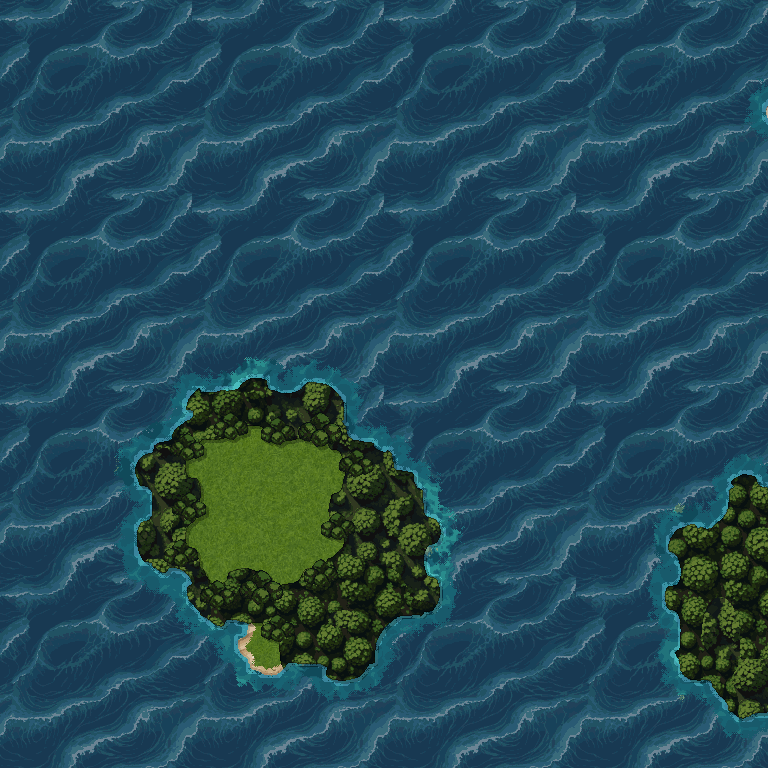
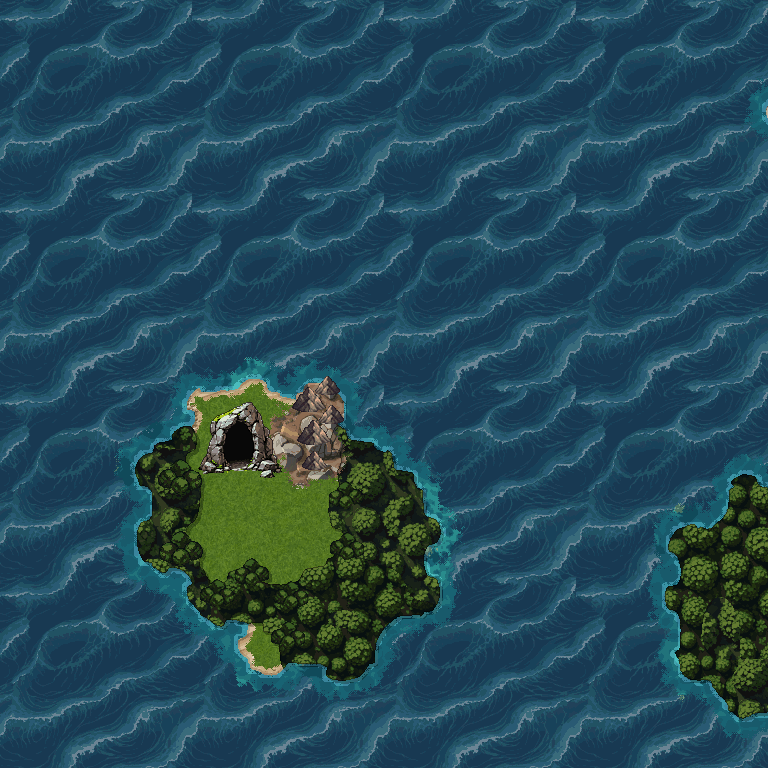
CD-W: a cave on the north, east, stack and west Cardia islets, five doors into Cardia Deep
- world_specs/later_doors.py: DOORS (the four islet doors, one step north of their entrances) and RETARGET (pass
  W's frozen Bahamut door now leads to cardia-deep bahamut_gate); world_source.doors() / transitions() read them
  after the frozen data (today_doors_data.py unchanged)
- ordeal/world_ordeal_nw.py: _mouth for ord_bahamut and DOOR_ISLES (the hermit's islet keeps only his hut, R1);
  a mouth that leaves an islet under 12 walk cells or without a grass landing within 8 is a pins error
- spots ord_s_{north,east,stack,west}_airship (44 -> 48); the docstrings fixed (the north islet is the northernmost)
- world.py: every check OK; land 26,948, exemptions 440 (cap 600); the full compile changed only ORDEAL-owned
  chunks (below_3_9, 4_9, 4_10, 5_9) and re-baked the Mode 7 atlas
- tests: ord_o_world (the islet doors, five mouths by cell, the four landings), worldSource (48 spots)

Changed region(s): [[0.1875, 0.4688, 0.5, 0.8438]]

diff --git a/tests/quest/ordeal/ord_o_world.test.ts b/tests/quest/ordeal/ord_o_world.test.ts
@@ -4,7 +4,8 @@
  * `regions.<r>.raster` chunks; committed sources only). The two anchors at their NW targets with their doors one
  * step north; airship-only land (no dock, no walk or canoe path joins the arc, an islet or another region); a grass
  * landing within 8 steps of the Citadel and of every islet, the meadow below the gate; the crescent's cold north rim;
- * the icons (the Citadel between its pillars on the crag, Bahamut's cave mouth, the hermit's hut and slate); the
+ * the icons (the Citadel between its pillars on the crag, a cave mouth on Bahamut's isle and on each of four islets,
+ * pass CD's stairs into Cardia Deep, the hermit's hut and slate); the
  * zones with today's ids and rosters covering every walkable and canoe cell of ORDEAL's land (3.8 `coverage`) and
  * ORDEAL's water; the backdrops, snow and taiga included (D-NW9, NW2).
  */
@@ -39,6 +40,7 @@ const g = nw.ground.replace(/\n$/, '').split('\n').map((r) => [...r]);
 const N = g.length;
 const E = nw.entrances;
 const ISLES = ['ord_bahamut', 'ord_isle_hermit', 'ord_isle_north', 'ord_isle_east', 'ord_isle_stack', 'ord_isle_west'];
+const DOOR_ISLES = ['ord_isle_north', 'ord_isle_east', 'ord_isle_stack', 'ord_isle_west'];   // pass CD: not the hermit's
 const BLOCK = new Set(['o', 'm', 'r', '≈']);
 const CANOE = new Set(['r', '≈']);
 const walkable = (c: string): boolean => !BLOCK.has(c);
@@ -79,11 +81,26 @@ describe('ORDEAL on the NW world (NW-R)', () => {
       const [x, y] = E[a.entrance];
       expect(Math.max(Math.abs(x - a.target[0]), Math.abs(y - a.target[1])), a.entrance).toBeLessThanOrEqual(2);
     }
-    for (const [e, map] of [['ord_citadel', 'citadel-1f'], ['ord_bahamut', 'bahamut-cave']] as const) {
+    for (const [e, map, te] of [['ord_citadel', 'citadel-1f', 'arrival'], ['ord_bahamut', 'cardia-deep', 'bahamut_gate']] as const) {
       const [x, y] = E[e];
-      expect(nw.transitions.find((t) => t.x === x && t.y === y - 1), e).toMatchObject({ targetMap: map, targetEntrance: 'arrival' });
+      expect(nw.transitions.find((t) => t.x === x && t.y === y - 1), e).toMatchObject({ targetMap: map, targetEntrance: te });
       expect(walkable(g[y][x]) && walkable(g[y - 1][x]), e).toBe(true);
     }
+  });
+
+  it('pass CD: each of four islets has a door one step north of its entrance into Cardia Deep; the hermit\'s none', () => {
+    const into = nw.transitions.filter((t) => t.targetMap === 'cardia-deep');
+    expect(into).toHaveLength(5);
+    const want: Record<string, string> = { ord_isle_north: 'north', ord_isle_east: 'east', ord_isle_stack: 'stack',
+      ord_isle_west: 'west' };
+    for (const e of DOOR_ISLES) {
+      const [x, y] = E[e];
+      expect(nw.transitions.find((t) => t.x === x && t.y === y - 1), e)
+        .toMatchObject({ targetMap: 'cardia-deep', targetEntrance: want[e] });
+      expect(walkable(g[y][x]) && walkable(g[y - 1][x]), e).toBe(true);
+    }
+    const [hx, hy] = E.ord_isle_hermit;
+    expect(nw.transitions.some((t) => Math.abs(t.x - hx) + Math.abs(t.y - hy) <= 2), 'the hermit\'s islet has no door').toBe(false);
   });
 
   it('is airship-only: the arc and each islet are their own land, on ORDEAL\'s raster, with no dock', () => {
@@ -114,7 +131,8 @@ describe('ORDEAL on the NW world (NW-R)', () => {
     const [cx, cy] = E.ord_citadel;
     const [, my] = E.ord_meadow;
     for (let y = cy; y <= my; y++) expect(g[y][cx], `meadow (${cx}, ${y})`).toBe('.');
-    for (const s of ['ord_s_citadel_airship', 'ord_s_bahamut_airship']) {
+    for (const s of ['ord_s_citadel_airship', 'ord_s_bahamut_airship', 'ord_s_north_airship', 'ord_s_east_airship',
+      'ord_s_stack_airship', 'ord_s_west_airship']) {
       const [x, y] = nw.spots[s].at;
       expect([nw.spots[s].kind, g[y][x]], s).toEqual(['landing', '.']);
     }
@@ -138,8 +156,12 @@ describe('ORDEAL on the NW world (NW-R)', () => {
     const pillars = nw.objects.filter((o) => o.parts?.[0]?.[0] === 'tpillar_broken_top' && inRaster('ordeal', o.x, o.y));
     expect(pillars.map((o) => [o.x, o.y])).toEqual([[cit.x - 1, cit.y + 1], [cit.x + 3, cit.y + 1]]);
     const [bx, by] = E.ord_bahamut;
-    const cave = nw.objects.find((o) => o.name === 'cave_mouth' && inRaster('ordeal', o.x, o.y))!;   // ORDEAL's
+    const cave = nw.objects.find((o) => o.name === 'cave_mouth' && o.x === bx - 1 && o.y === by - 2)!;   // Bahamut's
     expect([cave.x, cave.y, cave.walk_cells]).toEqual([bx - 1, by - 2, [[1, 1]]]);
+    const mouths = nw.objects.filter((o) => o.name === 'cave_mouth' && inRaster('ordeal', o.x, o.y));
+    const at = ['ord_bahamut', ...DOOR_ISLES].map((e) => [E[e][0] - 1, E[e][1] - 2]);
+    expect(mouths.map((o) => [o.x, o.y]).sort()).toEqual(at.sort());
+    for (const o of mouths) expect(o.walk_cells).toEqual([[1, 1]]);
     const hut = nw.objects.find((o) => o.name === 'hermit_hut')!;
     expect(bfs(E.ord_isle_hermit, land).has(key(hut.x, hut.y)), 'the hut stands on the hermit\'s islet').toBe(true);
     const boulders = nw.objects.filter((o) => o.parts?.[0]?.[0] === 'boulder' && inRaster('ordeal', o.x, o.y));

diff --git a/tests/data/worldSource.test.ts b/tests/data/worldSource.test.ts
@@ -101,7 +101,7 @@ describe('the NW world source (NW-2)', () => {
       else if (s.kind === 'dock') expect(c, name).toBe('o');
       else expect(['.', 't'], name).toContain(c);
     }
-    expect(Object.keys(src.spots)).toHaveLength(44);        // NW2-W: + wat_s_waterfall_airship; NW2-F: + fir_s_ice_ship, fir_s_ice_shore
+    expect(Object.keys(src.spots)).toHaveLength(48);        // NW2-W: + wat_s_waterfall_airship; NW2-F: + fir_s_ice_ship, fir_s_ice_shore; CD-W: + ord_s_{north,east,stack,west}_airship
     for (const d of src.docks) expect(g[d.y][d.x], d.id).toBe('o');
     expect(src.docks.map((d) => d.id).sort()).toEqual(['a1_pravoka', 'elf_port', 'ert_dwarf', 'ert_melmond', 'fir_crescent',
       'fir_ice']);

diff --git a/assets-src/tools/layouts/ordeal/world_ordeal_nw.py b/assets-src/tools/layouts/ordeal/world_ordeal_nw.py
@@ -8,8 +8,10 @@ spine runs along the outer side, so the north arm is a cold rim of rock and snow
 the broad west arm is a sheltered heath (the `warm` hints) of grass and pine stands: the tableland of the Citadel
 of Trials, whose gate is cut into a crag spur of the spine between two broken pillars, with the landing meadow
 below it. Cardia is an archipelago of about ten islets south-east of the bay: Bahamut's isle, bitten into a
-horseshoe whose bay opens east, with its cave mouth in a notch of rock; the hermit's islet, the northernmost, with
-his driftwood hut; four more named islets and the look-only ones between them. A small group lies south of the
+horseshoe whose bay opens east, with its cave mouth in a notch of rock; the hermit's islet with his driftwood hut;
+four more named islets (the north islet the northernmost), each with a cave mouth of its own, and the look-only ones
+between them. Pass CD (docs/CARDIA_PLAN.md 3): every mouth but the hermit's (he has none, ruling R1) is a stair into
+Cardia Deep, the one dragon village under all of them. A small group lies south of the
 arc's west horn. No dock, no land joined to Onrac or Gaia: the airship lands on the meadow and on every islet.
 Zones: `ord_heath` on the arc, `ord_isles` on every islet (both on foot and by canoe on the arc's streams),
 `ord_sea` on ORDEAL's water. Backdrops: the heath grassland (forest in the stands, dark_forest on taiga, the ice
@@ -35,6 +37,8 @@ COLD = {"taiga": "dark_forest", "snow": "ice_cave"}   # D-NW9, NW2 Q8: the cold 
 BOULDERS = ((3, 11), (-5, 6), (-6, 3))        # the heath's boulders: offsets from the Citadel's door
 HUT = (-1, -2)                                # the hermit's 2x2 hut: its offset from his islet's landing
 MEADOW_R = 2.5                                # NW2-T: the Citadel's landing meadow, grass round ord_meadow
+DOOR_ISLES = ("ord_isle_north", "ord_isle_east", "ord_isle_stack", "ord_isle_west")   # pass CD: a mouth on each
+MOUTH_MIN_WALK, MOUTH_LANDING = 12, 8         # pass CD (plan 3.2): an islet keeps a walk and a grass landing
 
 
 def _door(meta: dict, e: str) -> tuple[int, int]:
@@ -83,9 +87,12 @@ def _citadel(gr: _Ground, meta: dict) -> list[dict]:
             {"type": "deco", "parts": pillar, "x": x0 + 3, "y": y0 + 1}]
 
 
-def _cave(gr: _Ground, meta: dict) -> list[dict]:
-    """Bahamut's 2x2 cave mouth (its door the bottom right cell) in a notch of rock on his isle."""
-    dx, dy = _door(meta, "ord_bahamut")
+def _mouth(gr: _Ground, meta: dict, e: str) -> tuple[list[dict], str | None]:
+    """A 2x2 cave mouth (its door the bottom right cell) in a notch of rock on entrance e's isle; pass CD: one on
+    Bahamut's isle and on each DOOR_ISLES islet, every one a stair into Cardia Deep. The error string (or None):
+    the islet's walk component after the stamp is under MOUTH_MIN_WALK cells, or no grass within MOUTH_LANDING steps
+    of the entrance is left outside the mouth (plan 3.2; it joins the `pins` check, it never raises)."""
+    dx, dy = _door(meta, e)
     cx, cy = dx - 1, dy - 1
     for x in range(cx - 1, cx + 3):
         if gr.g[cy - 1, x] != "o":
@@ -97,7 +104,29 @@ def _cave(gr: _Ground, meta: dict) -> list[dict]:
         gr.put(dx + 1, dy, "m")                 # (the arrival; OW-2, warp_leaves)
     for x, y in ((cx, cy), (cx + 1, cy), (cx, cy + 1), (dx, dy), (dx, dy + 1)):
         gr.put(x, y, ".")
-    return [D._deco("cave_mouth", cx, cy, walk_cells=[[1, 1]])]
+    return [D._deco("cave_mouth", cx, cy, walk_cells=[[1, 1]])], _mouth_error(gr.g, meta, e, (cx, cy))
+
+
+def _mouth_error(g: np.ndarray, meta: dict, e: str, box: tuple[int, int]) -> str | None:
+    ex, ey = meta["entrances"][e]
+    walk = ~np.isin(g, BLOCK)
+    lab, _ = components(walk)
+    k = lab[ey, ex]
+    n = int((lab == k).sum()) if k else 0
+    mouth = {(box[0] + i, box[1] + j) for j in range(2) for i in range(2)}
+    dist, frontier, seen = 0, [(ex, ey)], {(ex, ey)}
+    grass = False
+    while frontier and dist <= MOUTH_LANDING and not grass:
+        grass = any(g[y, x] == "." and (x, y) not in mouth and (x, y) != (ex, ey - 1) for x, y in frontier)
+        nxt = []
+        for x, y in frontier:
+            for nx, ny in ((x + 1, y), (x - 1, y), (x, y + 1), (x, y - 1)):
+                if (nx, ny) not in seen and walk[ny, nx]:
+                    seen.add((nx, ny)); nxt.append((nx, ny))
+        frontier, dist = nxt, dist + 1
+    if n < MOUTH_MIN_WALK or not grass:
+        return f"ordeal: {e} mouth leaves {n} walk cells" + ("" if grass else f" / no landing within {MOUTH_LANDING}")
+    return None
 
 
 def _hermit(gr: _Ground, meta: dict) -> tuple[list[dict], list[dict]]:
@@ -155,7 +184,11 @@ def zones(g: np.ndarray, own: np.ndarray, meta: dict) -> dict[str, set]:
 def content(g: np.ndarray, meta: dict) -> dict:
     own = meta["region"] == meta["regions"].index(REGION)
     gr = _Ground(g, own)
-    objs = _citadel(gr, meta) + _cave(gr, meta)
+    objs, errors = _citadel(gr, meta), []
+    for e in ("ord_bahamut", *DOOR_ISLES):
+        mouth, err = _mouth(gr, meta, e)
+        objs += mouth
+        errors += [err] if err else []
     hut, insp = _hermit(gr, meta)
     objs += hut
     taken = {(o["x"] + i, o["y"] + j) for o in objs for j in range(len(o["parts"])) for i in range(len(o["parts"][0]))}
@@ -165,4 +198,4 @@ def content(g: np.ndarray, meta: dict) -> dict:
           for z, (name, _m, table, _bg) in D.ZONES.items() if cells[z]]
     bgs = {z: ({**bg, "terrain": {**bg.get("terrain", {}), **COLD}} if z != "ord_sea" else dict(bg))
            for z, (_n, _m, _t, bg) in D.ZONES.items()}
-    return {"objects": objs, "inspect": insp, "encounterZones": ez, "battleBackgrounds": {"zones": bgs}}
+    return {"objects": objs, "inspect": insp, "encounterZones": ez, "battleBackgrounds": {"zones": bgs}, "errors": errors}

diff --git a/assets-src/tools/layouts/world_specs/ordeal.py b/assets-src/tools/layouts/world_specs/ordeal.py
@@ -4,8 +4,9 @@ The Citadel: a crescent island arc in the north centre, its bay open to the sout
 west and Gaia's to the east by open straits. A high spine runs along its outer (north and west) side, so the north
 rim is snow and rock; the inner side is a sheltered heath (a `warm` climate hint) whose broad west arm is the
 tableland of the Citadel of Trials, cut into a crag spur of the spine. South-east of the arc lies Cardia, an
-archipelago owned by ORDEAL: Bahamut's isle and five named islets (the hermit's the northernmost) among seeded
-look-only islets, warm enough for grass landings. A small group lies south of the arc's west horn. Dockless:
+archipelago owned by ORDEAL: Bahamut's isle and five named islets (the north islet the northernmost) among seeded
+look-only islets, warm enough for grass landings; a cave on every named islet but the hermit's (pass CD: each a stair
+into Cardia Deep), each with its own grass landing. A small group lies south of the arc's west horn. Dockless:
 airship only. The north sea (forced open water between the north continents and the south) is listed here.
 
 Every point is Cornelia-relative (spec.py): the arc is given as world-cell midline knots with an outer and an inner
@@ -77,7 +78,11 @@ def spec() -> RegionSpec:
         sites=sites("ordeal", extra=EXTRA),
         spots=[SpotDef("ord_s_citadel", "ord_meadow", (0, -1), "land"),
                SpotDef("ord_s_citadel_airship", "ord_meadow", (0, 0), "landing"),
-               SpotDef("ord_s_bahamut_airship", "ord_bahamut", (0, 2), "landing")],
+               SpotDef("ord_s_bahamut_airship", "ord_bahamut", (0, 2), "landing"),
+               SpotDef("ord_s_north_airship", "ord_isle_north", (0, 1), "landing"),   # pass CD (plan 3.3)
+               SpotDef("ord_s_east_airship", "ord_isle_east", (0, 1), "landing"),
+               SpotDef("ord_s_stack_airship", "ord_isle_stack", (0, 1), "landing"),
+               SpotDef("ord_s_west_airship", "ord_isle_west", (0, 1), "landing")],
         north=("ord_citadel", "ord_bahamut"),
     )
 

diff --git a/assets-src/tools/layouts/world_specs/later_doors.py b/assets-src/tools/layouts/world_specs/later_doors.py
@@ -1,0 +1,37 @@
+"""Doors added after pass W's freeze (`today_doors_data.py` stays pass W's): (entrance, door offset, targetMap,
+targetEntrance), and the frozen doors whose target moved (pass CD, docs/CARDIA_PLAN.md 3.1, D-CD8b). `world_source`'s
+`doors()` and `transitions()` read them after the frozen ones."""
+from __future__ import annotations
+
+# pass CD: a cave on every named Cardia islet but the hermit's (ruling R1), each a stair into Cardia Deep
+DOORS = [("ord_isle_north", (0, -1), "cardia-deep", "north"),
+         ("ord_isle_east", (0, -1), "cardia-deep", "east"),
+         ("ord_isle_stack", (0, -1), "cardia-deep", "stack"),
+         ("ord_isle_west", (0, -1), "cardia-deep", "west")]
+# pass CD: Bahamut's frozen door (pass W: bahamut-cave arrival) now leads to the Sea Gate of Cardia Deep
+RETARGET = {"ord_bahamut": ("cardia-deep", "bahamut_gate")}
+
+
+def doors(off: dict, target: dict) -> tuple[dict, dict]:
+    """The frozen (entrance -> door offset, entrance -> door targetMap) with the later doors added and RETARGET
+    applied to the second (it feeds prewalk and dock_towns)."""
+    off, target = dict(off), dict(target)
+    for e, o, m, _te in DOORS:
+        off[e], target[e] = o, m
+    for e, (m, _te) in RETARGET.items():
+        if e in target:
+            target[e] = m
+    return off, target
+
+
+def transitions(frozen: list[dict], sites: dict) -> list[dict]:
+    """The frozen transitions (each with its `_entrance`) retargeted, then one per DOORS row at its site + offset."""
+    out = []
+    for t in frozen:
+        e = t.get("_entrance")
+        if e in RETARGET:
+            t = {**t, "targetMap": RETARGET[e][0], "targetEntrance": RETARGET[e][1]}
+        out.append(t)
+    for e, (dx, dy), m, te in DOORS:
+        out.append({"x": int(sites[e][0] + dx), "y": int(sites[e][1] + dy), "targetMap": m, "targetEntrance": te})
+    return out

diff --git a/assets-src/tools/layouts/world_source.py b/assets-src/tools/layouts/world_source.py
@@ -15,6 +15,7 @@ import numpy as np
 import yaml
 
 from a1 import world_a1_pins as P
+from world_specs import later_doors as LD
 from world_specs import today_doors as TD
 from worldgen import spec as S
 from worldgen.gates import BLOCK
@@ -31,19 +32,25 @@ def _a1(o: dict) -> dict:
 
 
 def doors() -> tuple[dict, dict]:
-    """(entrance -> door offset, entrance -> door targetMap): act 1's from its pins, the rest from today's world."""
+    """(entrance -> door offset, entrance -> door targetMap): act 1's from its pins, the rest from today's world, then
+    the later doors (pass CD, `world_specs/later_doors.py`)."""
     d = {**TD.door_of(P.ENTRANCES, P.TRANSITIONS), **TD.door_of(TD.entrances(), TD.transitions())}
-    return {e: off for e, (off, _t) in d.items()}, {e: t["targetMap"] for e, (_o, t) in d.items()}
+    return LD.doors({e: off for e, (off, _t) in d.items()}, {e: t["targetMap"] for e, (_o, t) in d.items()})
 
 
 def transitions(sites: dict) -> list[dict]:
-    """Every overworld transition at its entrance's new cell: act 1's pins, then today's others (today's order)."""
+    """Every overworld transition at its entrance's new cell: act 1's pins, then today's others (today's order), then
+    the later doors (pass CD: RETARGET applied to the frozen rows, the DOORS rows appended)."""
     out = [_a1(t) for t in P.TRANSITIONS]
     ents = TD.entrances()
+    moved = []
     for t in TD.transitions():
-        e = t.pop("_entrance")
+        e = t["_entrance"]
         ex, ey = ents[e]
-        out.append({**t, "x": int(sites[e][0] + t["x"] - ex), "y": int(sites[e][1] + t["y"] - ey)})
+        moved.append({**t, "x": int(sites[e][0] + t["x"] - ex), "y": int(sites[e][1] + t["y"] - ey)})
+    for t in LD.transitions(moved, sites):
+        t.pop("_entrance", None)
+        out.append(t)
     return out
 
 
